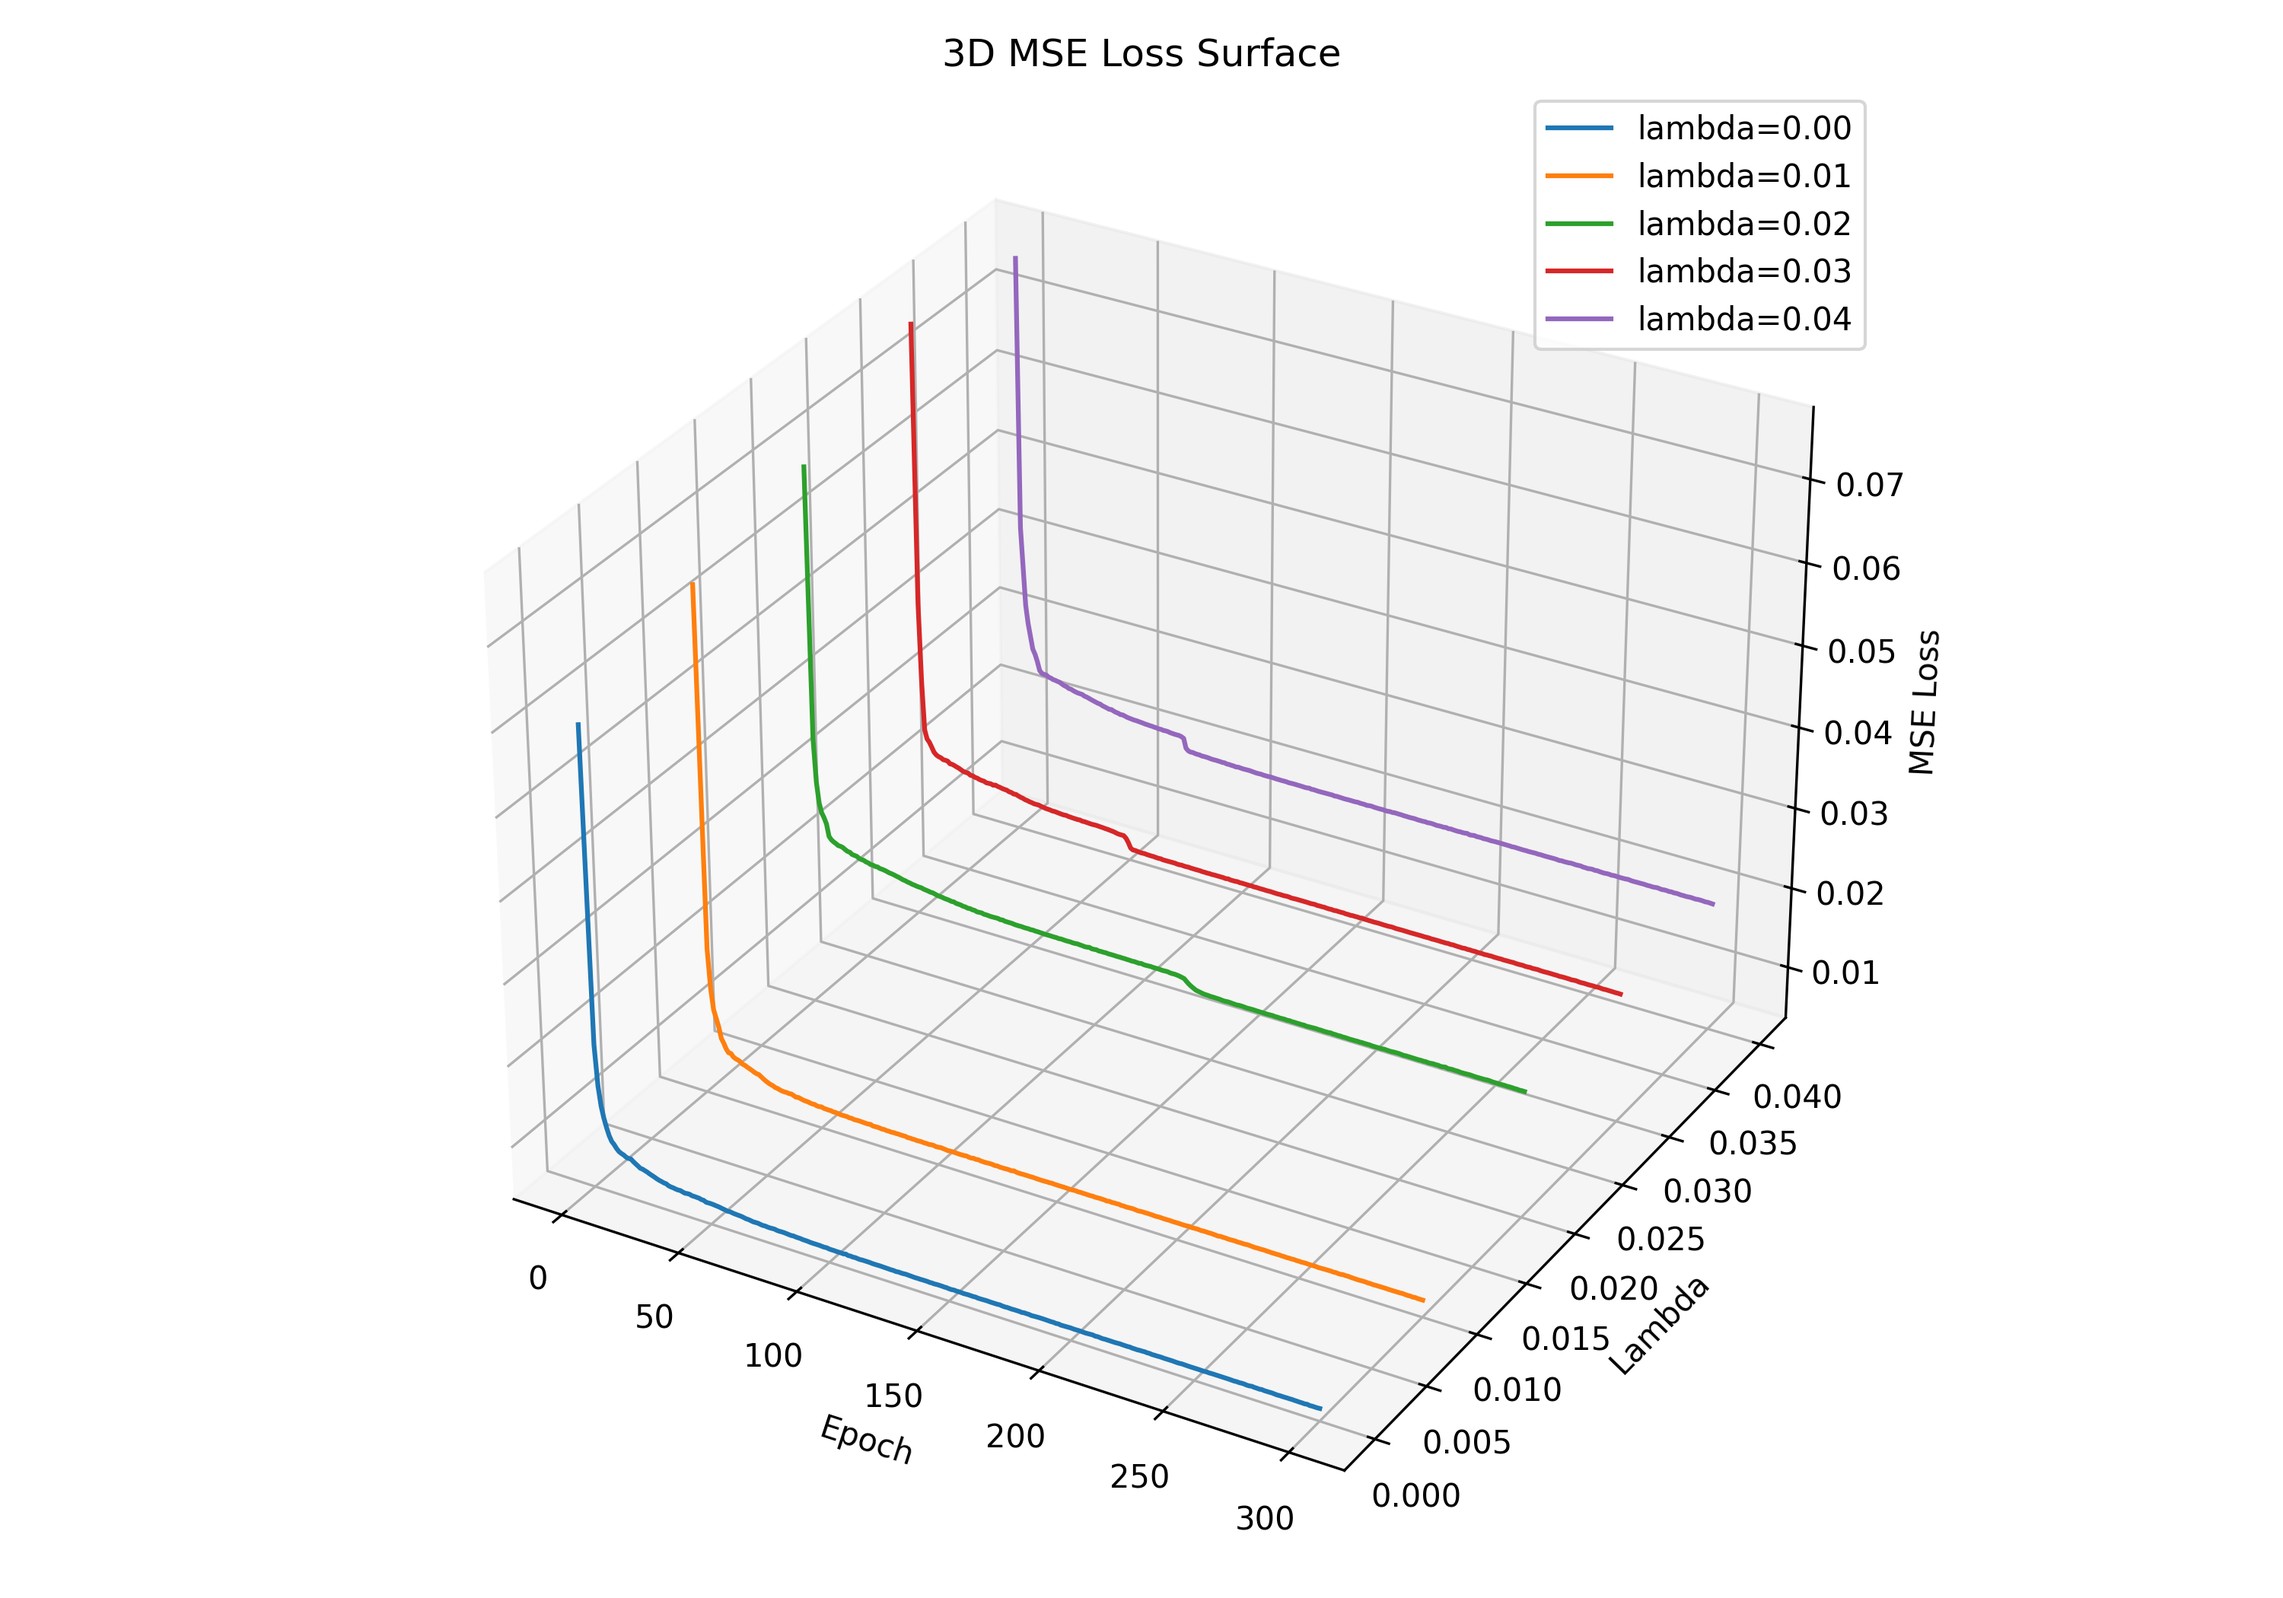
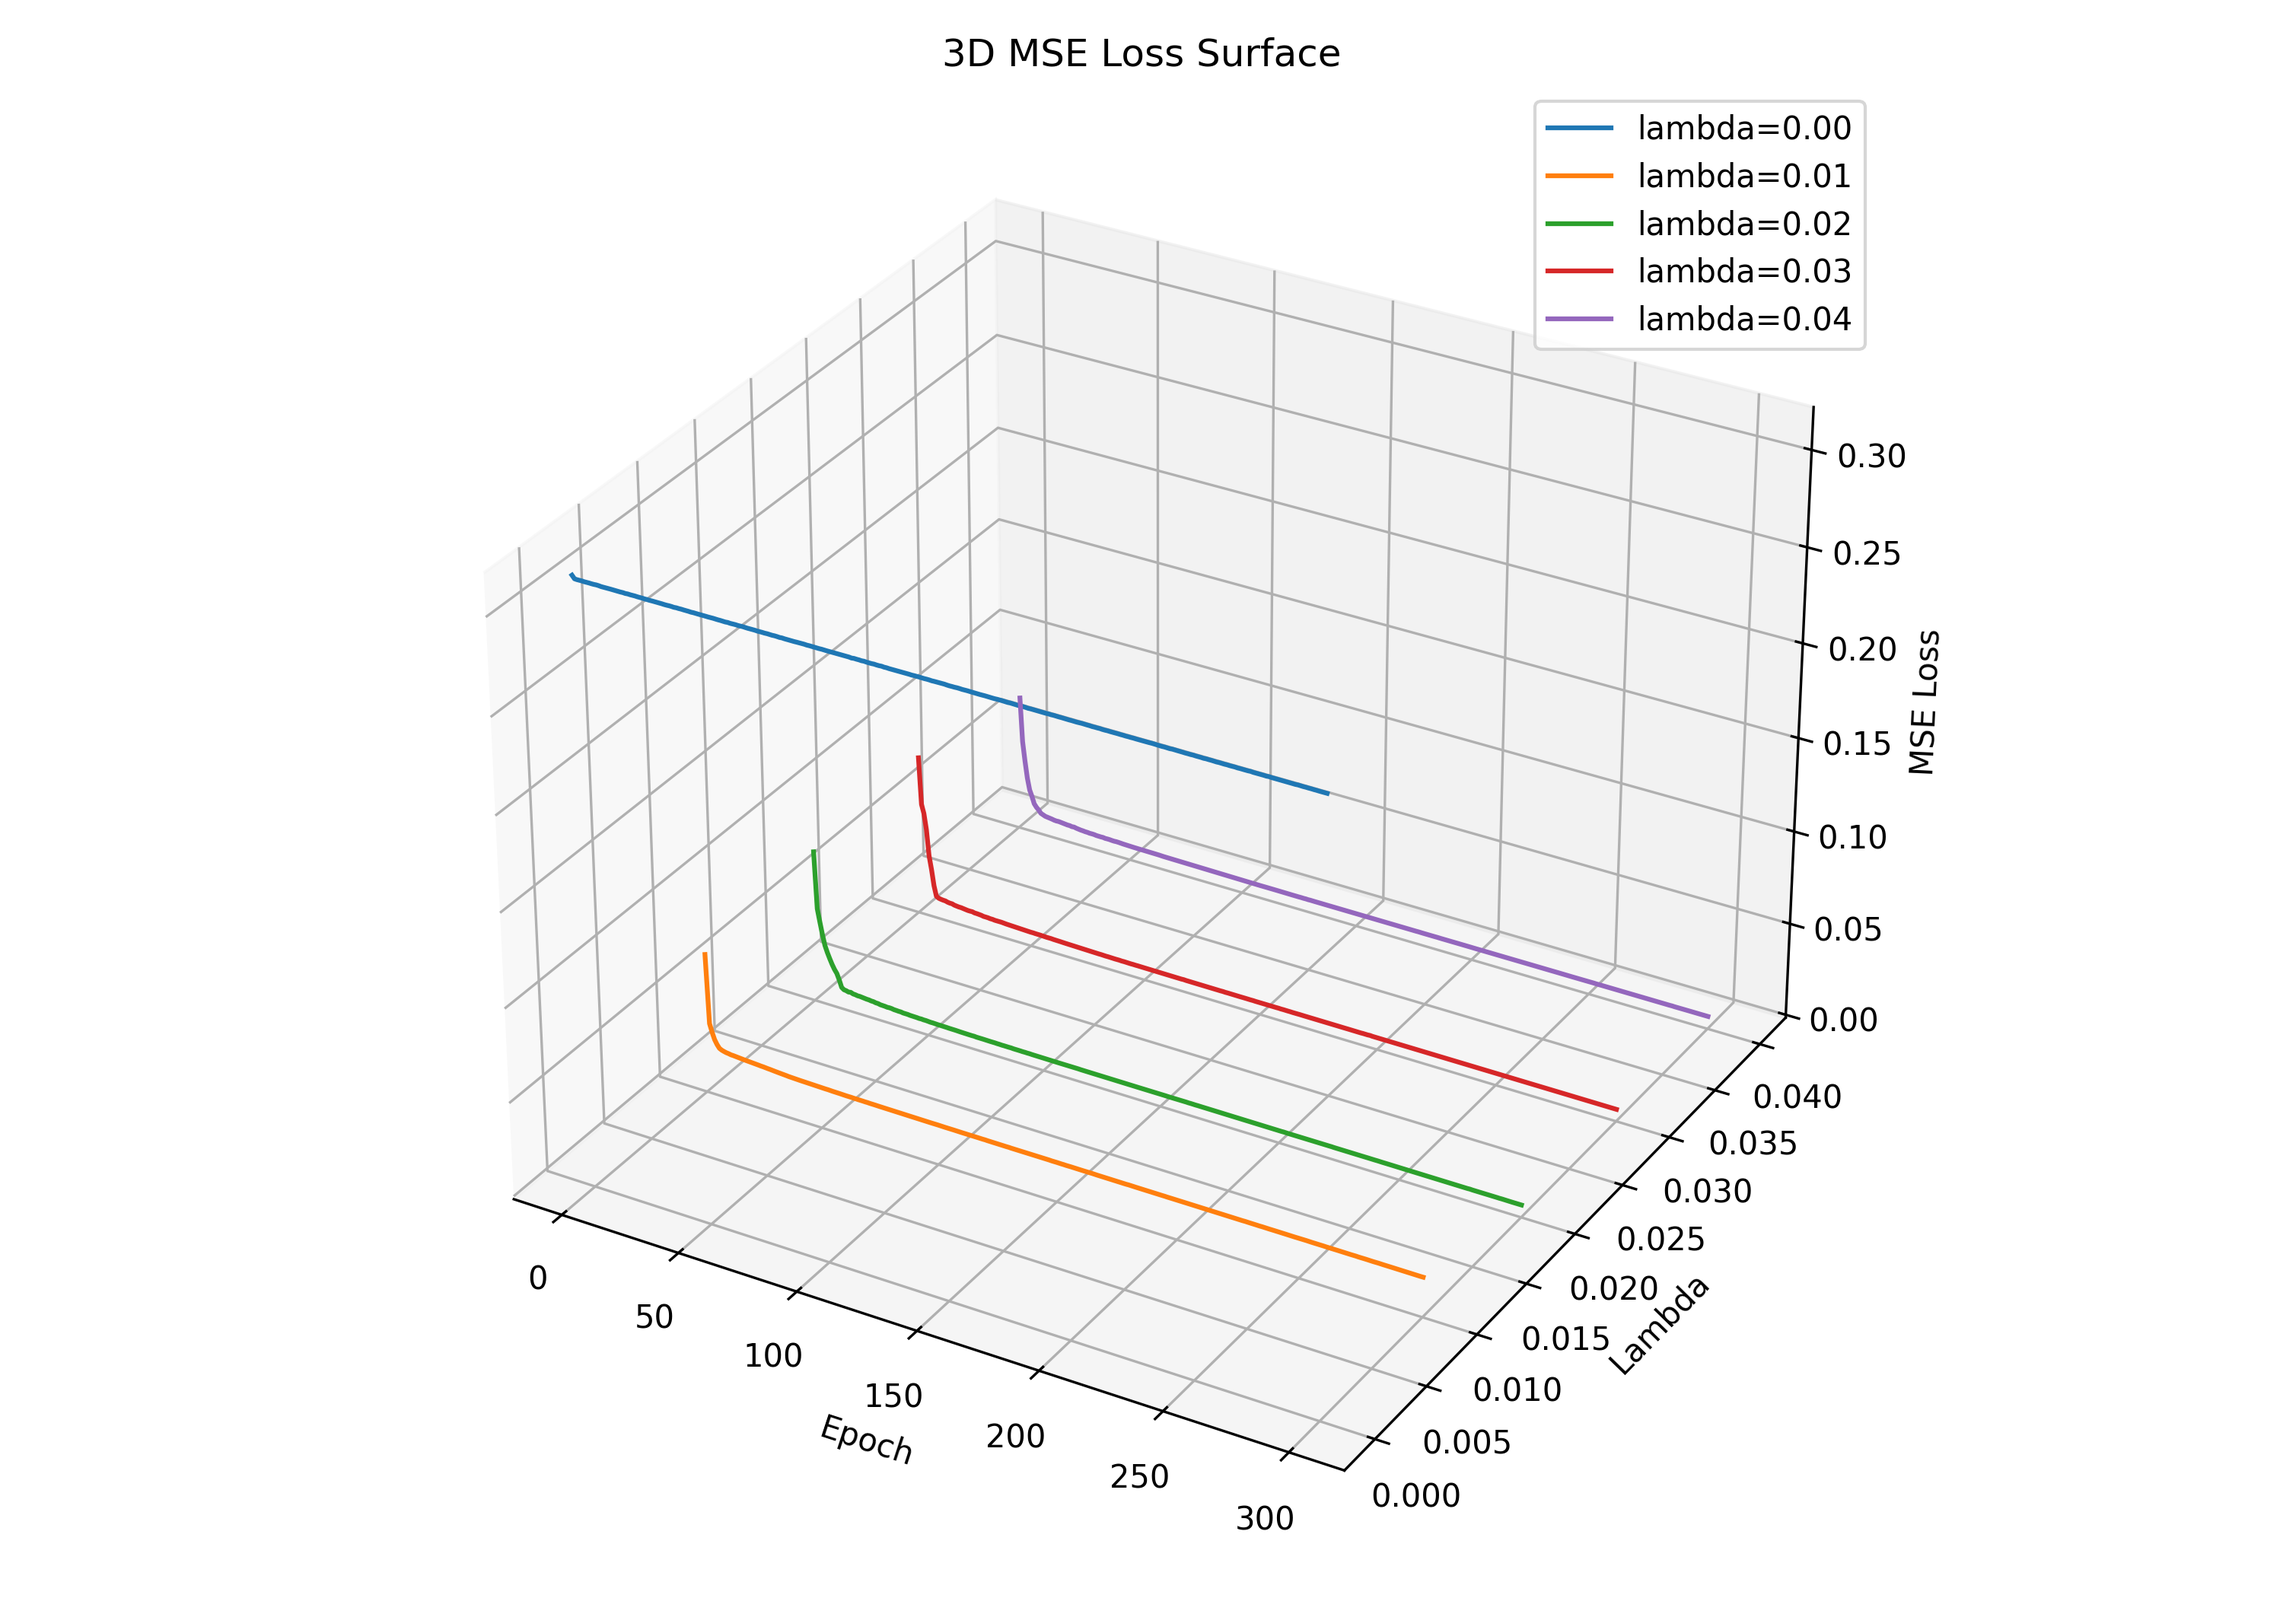
some modifications in the fixed model

diff --git a/src/testing/models/Autencoder.py b/src/testing/models/Autencoder.py
@@ -3,7 +3,8 @@ import torch.nn as nn
 import numpy as np
 
 
-#this is the definiton of the Autoencoder block this could be used in both the encoder and the decder 
+# this is the definiton of the Autoencoder block this could be used in both the encoder and the decder
+
 
 class AutoEncoderBlock(nn.Module):
     def __init__(self, in_channels, out_channels, mode="encode"):
@@ -14,19 +15,11 @@ class AutoEncoderBlock(nn.Module):
 
         if mode == "encode":
             self.op = nn.Conv2d(
-                in_channels,
-                out_channels,
-                kernel_size=3,
-                stride=2,
-                padding=1
+                in_channels, out_channels, kernel_size=3, stride=2, padding=1
             )
         else:
             self.op = nn.ConvTranspose2d(
-                in_channels,
-                out_channels,
-                kernel_size=4,
-                stride=2,
-                padding=1
+                in_channels, out_channels, kernel_size=4, stride=2, padding=1
             )
         self.norm = nn.BatchNorm2d(out_channels)
         self.act = nn.ReLU(inplace=True)
@@ -36,56 +29,58 @@ class AutoEncoderBlock(nn.Module):
         x = self.norm(x)
         x = self.act(x)
         return x
-    
+
 
 class AutoEncoder(nn.Module):
-    def __init__(self,width=128, height=1024):
+    def __init__(self, width=128, height=1024):
         super(AutoEncoder, self).__init__()
         self.encoder = nn.Sequential(
             AutoEncoderBlock(1, 32, mode="encode"),
             AutoEncoderBlock(32, 64, mode="encode"),
             AutoEncoderBlock(64, 128, mode="encode"),
-            AutoEncoderBlock(128,256,mode="encode"),
-            AutoEncoderBlock(256,128,mode="encode")
-        )   
-        
+            AutoEncoderBlock(128, 256, mode="encode"),
+            AutoEncoderBlock(256, 128, mode="encode"),
+            AutoEncoderBlock(128, 64, mode="encode"),
+        )
+
         self.decoder = nn.Sequential(
-            AutoEncoderBlock(128,256,mode="decode"),
-            AutoEncoderBlock(256,128,mode="decode"),
+            AutoEncoderBlock(64, 128, mode="encode"),
+            AutoEncoderBlock(128, 256, mode="decode"),
+            AutoEncoderBlock(256, 128, mode="decode"),
             AutoEncoderBlock(128, 64, mode="decode"),
             AutoEncoderBlock(64, 32, mode="decode"),
             AutoEncoderBlock(32, 1, mode="decode"),
         )
 
-    def forward(self,x):
+    def forward(self, x):
         x = self.encoder(x)
         x = self.decoder(x)
         return x
-    
-    def encode_latent(self,x):
+
+    def encode_latent(self, x):
         x = self.encoder(x)
         return x
-    
-    def decode_latent(self,x):
+
+    def decode_latent(self, x):
         x = self.decoder(x)
         return x
-    
+
 
 class Classifier(nn.Module):
-    def __init__(self,input_size, output_size):
+    def __init__(self, input_size, output_size):
         super(Classifier, self).__init__()
         self.input_size = input_size
         self.output_size = output_size
         self.classify = nn.Sequential(
-            nn.Linear(input_size,input_size//4),
+            nn.Linear(input_size, input_size // 4),
             nn.ReLU(),
-            nn.Linear(input_size//4, input_size//8),
+            nn.Linear(input_size // 4, input_size // 8),
             nn.ReLU(),
-            nn.Linear(input_size//8,output_size*16),
+            nn.Linear(input_size // 8, output_size * 16),
             nn.ReLU(),
-            nn.Linear(output_size*16, output_size),
-            nn.Softmax(dim=1)
+            nn.Linear(output_size * 16, output_size),
+            nn.Softmax(dim=1),
         )
-    
-    def forward(self,x):
+
+    def forward(self, x):
         return self.classify(x)

diff --git a/src/testing/autoencoder_training.py b/src/testing/autoencoder_training.py
@@ -103,12 +103,13 @@ def train(epoch, lr_rate, dataLoader, Loss_fn, optimizer):
 
 
 testing = False
-already_trained = True
-train_autoencoder = False
+already_trained = False
+train_autoencoder = True
 if train_autoencoder:
     if testing:
-        LR_rate = [0.00001, 0.0001, 0.0005, 0.001, 0.005, 0.01, 0.5]
-        epoch = 250
+        # LR_rate = [0.00001, 0.0001, 0.0005, 0.001, 0.005, 0.01, 0.5]
+        LR_rate = [1e-3]
+        epoch = 300
 
         List_of_all_hyperparams = []
         for lr_rate in LR_rate:
@@ -120,7 +121,7 @@ if train_autoencoder:
             json.dump(List_of_all_hyperparams, f)
         # here we are going to start the training for the Classifier in other words the bottle neck classifier
     else:
-        if already_trained:
+        if not already_trained:
             LR_rate = 1e-3
             epoch = 300
             latent_model, Loss_fn, optimizer, num_epochs, epochList = train(
@@ -275,6 +276,7 @@ def train_contrasitve_model(epoch_count, dataLoader, weight_L):
 
 LR_rate = [0.00001, 0.0001, 0.0005, 0.001, 0.005, 0.01, 0.5]
 
+
 # loss_graph = []
 
 # for lr in LR_rate:
@@ -285,9 +287,9 @@ LR_rate = [0.00001, 0.0001, 0.0005, 0.001, 0.005, 0.01, 0.5]
 #    loss_graph.append(t)
 # with open("loss_graph.json", "w") as f:
 #    json.dump(loss_graph, f)
-total_data = []
-for i in range(5):
-    data_got = train_contrasitve_model(300, dataLoader, 0.1 * i)
-    total_data.append(data_got)
-with open("loss_contrastive.json", "w") as f:
-    json.dump(total_data, f)
+#    total_data = []
+#    for i in range(5):
+#        data_got = train_contrasitve_model(300, dataLoader, 0.1 * i)
+#        total_data.append(data_got)
+#    with open("loss_contrastive.json", "w") as f:
+#        json.dump(total_data, f)
